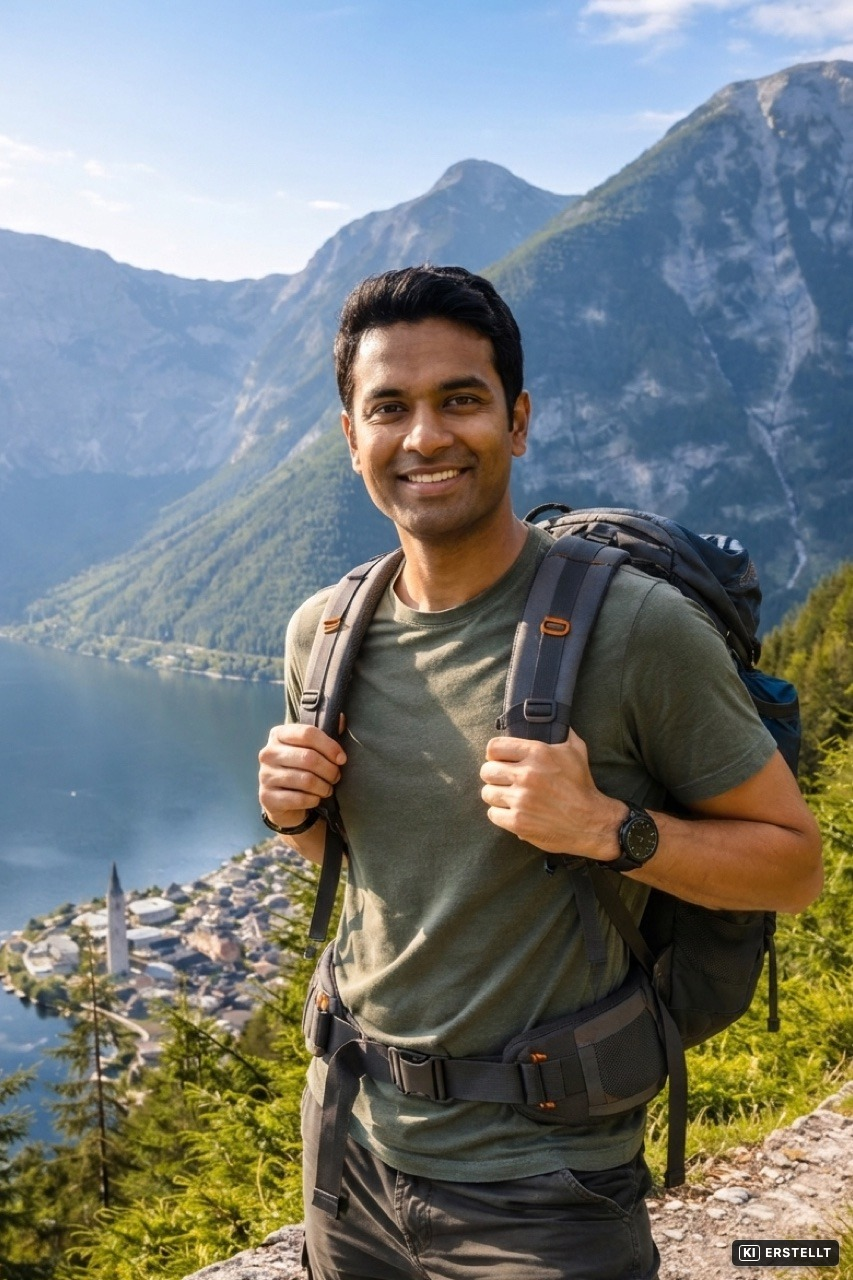
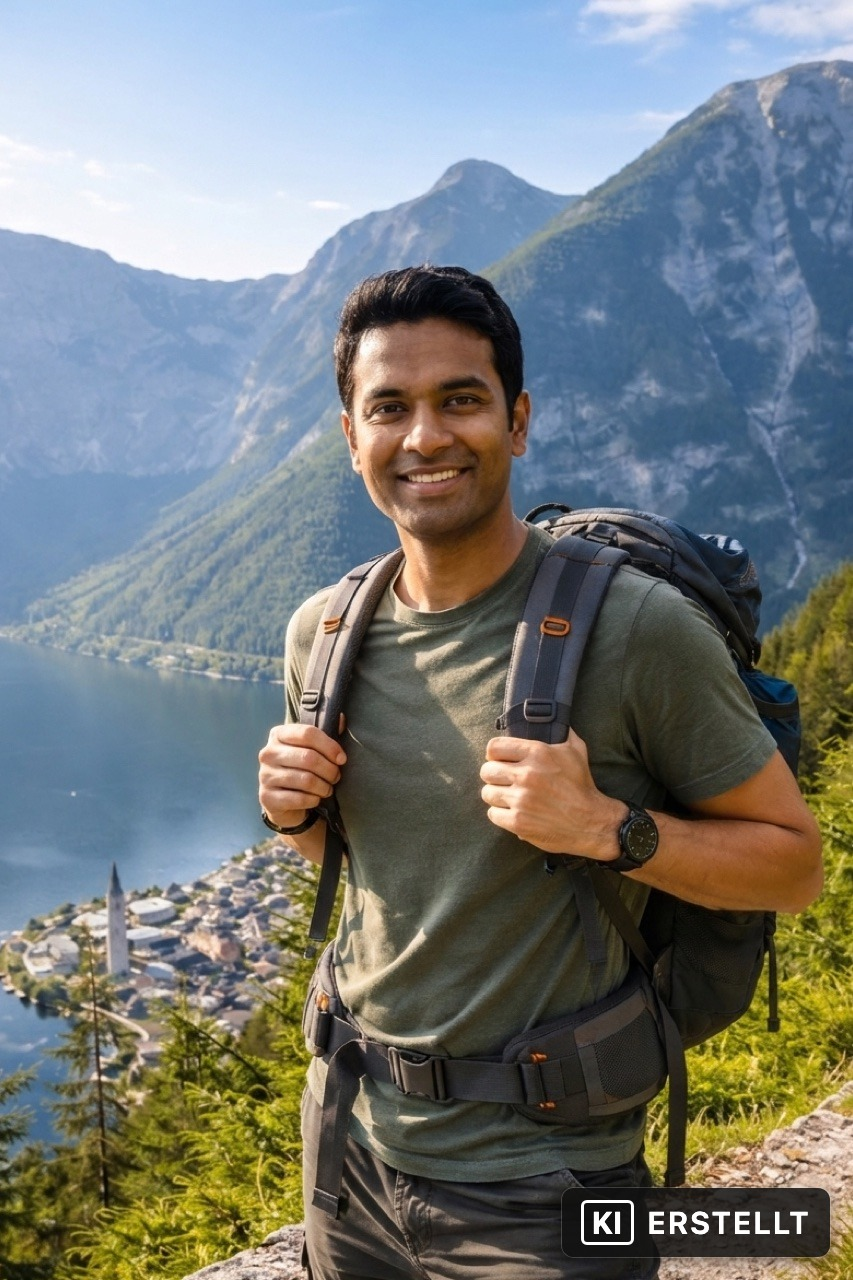
feat: v2.9.0 — Altersmerkmale, Kinderschutz-Filter, KI-Kennzeichnung
CHANGELOG zusammengefasst: Die fuenf Einzeleintraege 2.9.0 bis 2.9.4 desselben
Tages sind zu einer Version zusammengezogen. Fuer Aussenstehende zaehlt, was
sich geaendert hat — nicht, in welcher Reihenfolge es entstanden ist.

KI-Kennzeichnung der Demo-Fotos, dritter und letzter Anlauf:
Die Thumbnails werden jetzt im Kachel-Format 3:2 erzeugt statt im Hochformat.
Vorher schnitt die Kachel (aspect-ratio 3/2, object-position top) die untere
Bildhaelfte weg — das Badge war in der Datei vorhanden, auf der Startseite
aber unsichtbar. Die Badge-Groesse richtet sich jetzt nach der ANZEIGEbreite
statt nach der Dateibreite: Ein Vollbild erscheint auf ein Drittel verkleinert,
eine reine Prozentrechnung machte das Zeichen dort unlesbar klein.

METHODIK-LEKTION, im Skript dokumentiert: Die Bilddatei allein zu betrachten
sagt nichts ueber die Darstellung. Dieser Fehler ist dreimal hintereinander
passiert — Badge unten (abgeschnitten), Badge zu gross, Badge zu klein. Jetzt
wird die echte Seite lokal gerendert und die tatsaechliche Anzeigegroesse
gemessen, BEVOR deployt wird.

Cache-Buster 2026081006. 176 Frontend-Tests gruen, Format sauber.

Changed region(s): [[0.6706, 0.9062, 1.0, 1.0]]

diff --git a/public/index.html b/public/index.html
@@ -85,7 +85,7 @@
     <link rel="dns-prefetch" href="https://nominatim.openstreetmap.org" />
     <link rel="preconnect" href="https://nominatim.openstreetmap.org" crossorigin />
     <link rel="stylesheet" href="./lib/leaflet/leaflet.css" />
-    <link rel="stylesheet" href="./styles.css?v=2026081005" />
+    <link rel="stylesheet" href="./styles.css?v=2026081006" />
     <script type="application/ld+json">
 [
   {
@@ -258,15 +258,15 @@
         <p class="demo-label" data-i18n="demo.label">Kein Foto zur Hand? Probier ein Beispielbild (mit KI erstellt):</p>
         <div class="demo-grid">
           <button class="demo-thumb" data-demo="selfie" type="button" tabindex="0">
-            <img src="./img/demo/demo-selfie-thumb.jpg?v=2026081005" alt="Mit KI erstelltes Beispielbild: Selfie am Stephansplatz. Zeigt keine reale Person." loading="lazy" />
+            <img src="./img/demo/demo-selfie-thumb.jpg?v=2026081006" alt="Mit KI erstelltes Beispielbild: Selfie am Stephansplatz. Zeigt keine reale Person." loading="lazy" />
             <span class="demo-caption" data-i18n="demo.selfie">Selfie am Stephansplatz</span>
           </button>
           <button class="demo-thumb" data-demo="cafe" type="button" tabindex="0">
-            <img src="./img/demo/demo-cafe-thumb.jpg?v=2026081005" alt="Mit KI erstelltes Beispielbild: Im Café in Salzburg. Zeigt keine reale Person." loading="lazy" />
+            <img src="./img/demo/demo-cafe-thumb.jpg?v=2026081006" alt="Mit KI erstelltes Beispielbild: Im Café in Salzburg. Zeigt keine reale Person." loading="lazy" />
             <span class="demo-caption" data-i18n="demo.cafe">Im Caf&eacute; in Salzburg</span>
           </button>
           <button class="demo-thumb" data-demo="hiker" type="button" tabindex="0">
-            <img src="./img/demo/demo-hiker-thumb.jpg?v=2026081005" alt="Mit KI erstelltes Beispielbild: Wanderung bei Hallstatt. Zeigt keine reale Person." loading="lazy" />
+            <img src="./img/demo/demo-hiker-thumb.jpg?v=2026081006" alt="Mit KI erstelltes Beispielbild: Wanderung bei Hallstatt. Zeigt keine reale Person." loading="lazy" />
             <span class="demo-caption" data-i18n="demo.hiker">Wanderung bei Hallstatt</span>
           </button>
         </div>
@@ -336,6 +336,6 @@
     <div id="srAnnounce" class="sr-only" aria-live="assertive"></div>
 
     <script src="./lib/leaflet/leaflet.js"></script>
-    <script type="module" src="./app.js?v=2026081005"></script>
+    <script type="module" src="./app.js?v=2026081006"></script>
   </body>
 </html>

diff --git a/public/js/demo.js b/public/js/demo.js
@@ -5,9 +5,9 @@ import { dismissDisclaimerModal } from "./ui.js";
 import { t } from "./i18n.js";
 
 const DEMO_IMAGES = {
-  selfie: "./img/demo/demo-selfie.jpg?v=2026081005",
-  cafe: "./img/demo/demo-cafe.jpg?v=2026081005",
-  hiker: "./img/demo/demo-hiker.jpg?v=2026081005",
+  selfie: "./img/demo/demo-selfie.jpg?v=2026081006",
+  cafe: "./img/demo/demo-cafe.jpg?v=2026081006",
+  hiker: "./img/demo/demo-hiker.jpg?v=2026081006",
 };
 
 export function initDemo() {

diff --git a/CHANGELOG.md b/CHANGELOG.md
@@ -4,73 +4,32 @@ Alle relevanten Aenderungen an malziME werden hier dokumentiert.
 
 Format basiert auf [Keep a Changelog](https://keepachangelog.com/de/1.1.0/).
 
-## [2.9.4] — 2026-08-10
-
-### Hinzugefügt
-
-- **Die Demo-Fotos auf der Startseite tragen jetzt die Kennzeichnung „KI ERSTELLT".** Sie sind KI-generiert (siehe `public/img/demo/LICENSE.md`) und fallen damit unter die seit August 2026 geltende Kennzeichnungspflicht. Umgesetzt auf drei Ebenen:
-  - **Sichtbar, in die Pixel gebrannt** — klein, rechts unten (`scripts/ki-wasserzeichen.mjs`). Bewusst kein CSS-Overlay: Das verschwindet, sobald jemand das Bild speichert oder weitergibt. Der Wortlaut ist „ERSTELLT", nicht „BEARBEITET" — die Bilder sind vollständig erzeugt, nicht nachträglich verändert.
-  - **Maschinenlesbar in den Metadaten:** `DigitalSourceType = trainedAlgorithmicMedia` (offizieller IPTC-Wert für vollständig algorithmisch erzeugte Bilder), dazu Credit, Quelle und Beschreibung.
-  - **Für Suchmaschinen** über strukturierte Daten und die Bildbeschreibungen.
-
-  Zwei Fallen, beide beim ersten Anlauf zugeschlagen und im Skript dokumentiert: **Der Vorgang löscht alle EXIF-Daten** — und die sind bei den Demo-Bildern absichtlich (fiktiv) gesetzt, weil malziME daran vorführt, welche versteckten Daten in einem Foto stecken. Sie werden jetzt vom Original übernommen. Und: Die Startseite zeigt die Hochformat-Bilder in Kacheln mit 3:2 und Ausrichtung nach oben — die untere Bildhälfte fällt dort weg. Das Badge sitzt bewusst trotzdem rechts unten (übliche Ecke für Bildnachweise); sichtbar wird es in der Vorschau nach dem Klick und überall dort, wo die Datei weitergegeben wird. Für die Kachel-Ansicht trägt die Zeile darüber den Hinweis „(mit KI erstellt)".
-
-  Nebenbefund behoben: Die Vollbilder wurden in `demo.js` noch mit dem Cache-Buster vom Februar geladen — ein Bildwechsel wäre bei niemandem angekommen, der die Seite schon einmal besucht hat. (Cache-Buster 2026081005)
-
-## [2.9.3] — 2026-08-10
-
-### Behoben
-
-- **v2.9.2 zurückgenommen.** Der Fix hat den Abbruch beseitigt, aber einen schlimmeren Zustand erzeugt: Nach der Rückkehr aus dem Hintergrund erschien zwar keine Fehlermeldung mehr, es kam aber auch kein Ergebnis — kein Spinner, kein Status, nichts. Ein stiller toter Zustand ist schlechter als eine falsche Fehlermeldung, weil er nicht einmal zum Neuladen auffordert. Der Stand entspricht wieder v2.9.1; die Ursache wird untersucht, bevor ein zweiter Anlauf kommt. (Cache-Buster 2026081003)
-
-## [2.9.2] — 2026-08-10 — ZURÜCKGENOMMEN mit 2.9.3
-
-### Behoben
-
-- **„Netzwerkfehler", während das Handy in der Tasche war.** Gemeldet aus dem laufenden Betrieb: Der Browser lag im Hintergrund, es erschien eine Fehlermeldung — obwohl serverseitig alles lief. Im Log war der Job 85 Sekunden später sauber fertig und ausgeliefert; der Client hatte da längst aufgegeben.
-
-  Ursache: Der Browser friert laufende `fetch`-Aufrufe ein, sobald der Tab in den Hintergrund geht. Diese Fehlschläge zählten mit, und nach fünf davon brach der Lauf ab — rund zehn Sekunden Bildschirmsperre genügten. Der zweite Teil des Problems saß in der Fehleranzeige: Sie prüft `document.hidden` erst beim Auswerten des Fehlers. Wer zurückkehrt, bevor das passiert, bekommt statt des freundlichen „unterbrochen"-Hinweises die härteste Meldung der Kette — „Netzwerkfehler". Ursache war der Hintergrund, gemeldet wurde ein Netzproblem.
-
-  Der Job läuft in der Warteschlange unabhängig vom Browser weiter, und das Ergebnis liegt rund zwei Stunden bereit — genau dafür wurde sie gebaut. Fehlgeschlagene Abfragen im Hintergrund zählen deshalb nicht mehr mit; nach der Rückkehr wird der Zähler einmal zurückgesetzt, weil die Verbindung dann oft noch einen Moment braucht. Die Obergrenze von 30 Minuten bleibt, und bei sichtbarer Seite bricht der Lauf weiterhin nach fünf Fehlversuchen ab — sonst hinge die Anzeige bei echtem Netzausfall stumm. (`public/js/api.js`, +2 Tests, Mutationsprobe bestanden)
-
-## [2.9.1] — 2026-08-10
-
-### Behoben
-
-- **Ein Affenbild wurde als Profil eines afrikanischen Kleinkindes analysiert.** Gemeldet aus einem Workshop, wo ein Schüler das Bild hochgeladen hat. Die Verwechslung Primat/schwarzer Mensch ist ein dokumentiertes Muster in Bildmodellen (Google Photos hat 2015 Schwarze als „Gorillas" einsortiert und das nie behoben, sondern nur die Kategorie entfernt) — kein Zufall dieses einen Bildes.
-
-  **Die vorhandene Tiererkennung hat dabei nicht versagt.** Der Prompt verlangt ein Pflichtfeld `subject`, bei `ANIMAL_ONLY` kommt statt eines Profils das Tier-Easter-Egg, und das läuft in beiden Pipelines. Das Modell hatte schlicht `HUMAN` gemeldet — ab da folgt die Erkennung korrekt einer Einschätzung, die schon falsch war. Eine zusätzliche Vorprüfung „ist ein Mensch im Bild?" würde deshalb nichts ändern; sie existiert bereits und träfe dieselbe Fehlentscheidung.
-
-  Zwei Änderungen setzen deshalb tiefer an:
-  - **Im Prompt** eine Merkmals-Prüfliste vor der Festlegung (Fell statt Haut, Schnauze statt Nase, Pfoten statt Händen, Schwanz, Schnurrhaare, Ohrform) und die ausdrückliche Regel, dass Primaten **immer** `ANIMAL_ONLY` sind, niemals `HUMAN` — mit dem Hinweis, dass die Zuordnung zu einem Menschen ein schwerer, historisch belasteter Fehler ist. Bei Zweifel gilt `ANIMAL_ONLY`.
-  - **Serverseitig ein Netz** (`animal.js` `pruefeTierWiderspruch`): Meldet das Modell `HUMAN`, beschreibt im Text aber Fell, Schnauze, Pfoten oder einen Primaten, ist die Antwort in sich widersprüchlich — dann kommt das Tier-Easter-Egg statt eines erfundenen Menschenprofils. Ein falsches Tierprofil ist harmlos, ein rassistisches Menschenprofil nicht.
-
-  Bewusst eng gefasst, mit Ausnahmeliste für Pferdeschwanz, Fellweste, Kunstfell und Katzenaugen-Lidstrich: Ein zu scharfer Filter würde echte Fotos blockieren, und das wäre im Workshop schlimmer als ein seltener Durchrutscher. (+13 Tests)
-
-  **Grenze, die dazugehört:** Beschreibt das Modell durchgehend einen Menschen, findet auch dieses Netz nichts. Es fängt die widersprüchlichen Fälle, nicht die vollständig falschen. Der Haupthebel bleibt die Regel im Prompt.
-
 ## [2.9.0] — 2026-08-10
 
 ### Hinzugefügt
 
-- **Der Kinderschutz-Filter schneidet nicht mehr bei exakt 18.** Er nimmt jetzt die **Untergrenze** der Altersspanne, die das Modell selbst liefert — wer „16-22" sein könnte, gilt als schutzbedürftig — und darauf drei Jahre Sicherheitsabstand. Anlass: Aus rund 5.000 begleiteten Workshop-Analysen ist bekannt, dass Mädchen bis zu sechs Jahre zu alt geschätzt werden. Mit einer harten 18er-Grenze verlor damit ausgerechnet ein zu alt geschätztes vierzehnjähriges Mädchen den Schutz vor Glücksspiel-, Alkohol-, Kredit- und Diätwerbung — im Klassenzimmer, an die Wand projiziert. Der Preis ist bewusst in Kauf genommen: Ein tatsächlich Neunzehn- bis Einundzwanzigjähriger sieht diese Werbung nicht mehr, obwohl sie dort legitimer Lerninhalt wäre. Die Abwägung ist asymmetrisch — eine Vierzehnjährige mit Glücksspielwerbung ist ein Schaden, einem Neunzehnjährigen fehlt ein Beispiel. (`minor-safety.js`, +8 Tests)
-- **Altersmerkmale für Kinder und Jugendliche, die bei beiden Geschlechtern gleich schnell laufen.** Vorher war die *primäre* Alters-Achse die **Schulterbreite**, dazu kam eine Zusatzregel, die nur für Mädchen galt („Mädchen erreichen diese Spanne oft ohne Akne und Bartflaum" — sie verbot, ein Mädchen mit glatter Haut jünger einzuordnen). Beides hängt an der Pubertät, und die beginnt zwischen 8 und 14 Jahren, bei Mädchen im Schnitt zwei Jahre früher. Wer daran das Alter misst, schätzt Mädchen zwangsläufig zu alt und Jungen zu jung — das beobachtete Muster stand also wörtlich in der eigenen Anweisung. Neu sind Augenlinie im Kopf, Zahnstand, Wangenfett, Nasenrücken und Kopf-Körper-Verhältnis; Reifemerkmale sind ausdrücklich als untauglich benannt, mit Begründung. **Kein Ausgleich, keine Korrekturzahl** — nur bessere Merkmale. (`locales/{de,en}/prompts.js`, +33 Tests in `age-markers.test.js`)
+- **Der Kinderschutz-Filter schneidet nicht mehr bei exakt 18.** Er nimmt jetzt die **Untergrenze** der Altersspanne, die das Modell selbst liefert — wer „16-22" sein könnte, gilt als schutzbedürftig — und darauf drei Jahre Sicherheitsabstand. Anlass: Aus rund 5.000 begleiteten Workshop-Analysen ist bekannt, dass Mädchen bis zu sechs Jahre zu alt geschätzt werden. Mit einer harten 18er-Grenze verlor damit ausgerechnet ein zu alt geschätztes vierzehnjähriges Mädchen den Schutz vor Glücksspiel-, Alkohol-, Kredit- und Diätwerbung — im Klassenzimmer, an die Wand projiziert. Der Preis ist bewusst in Kauf genommen: Ein tatsächlich Neunzehn- bis Einundzwanzigjähriger sieht diese Werbung nicht mehr, obwohl sie dort legitimer Lerninhalt wäre. Die Abwägung ist asymmetrisch — eine Vierzehnjährige mit Glücksspielwerbung ist ein Schaden, einem Neunzehnjährigen fehlt ein Beispiel. (`minor-safety.js`)
 
-### Geändert
+- **Altersmerkmale für Kinder und Jugendliche, die bei beiden Geschlechtern gleich schnell laufen.** Vorher war die *primäre* Alters-Achse die **Schulterbreite**, dazu kam eine Zusatzregel, die nur für Mädchen galt („Mädchen erreichen diese Spanne oft ohne Akne und Bartflaum"). Beides hängt an der Pubertät, und die beginnt zwischen 8 und 14 Jahren, bei Mädchen im Schnitt zwei Jahre früher. Wer daran das Alter misst, schätzt Mädchen zwangsläufig zu alt und Jungen zu jung — das aus der Praxis berichtete Muster stand also wörtlich in der eigenen Anweisung. Neu sind Augenlinie im Kopf, Zahnstand, Wangenfett, Nasenrücken und Kopf-Körper-Verhältnis; Reifemerkmale sind ausdrücklich als untauglich benannt, mit Begründung. **Kein Ausgleich, keine Korrekturzahl** — nur bessere Merkmale. Bei Erwachsenen gelten fehlende Falten nicht mehr als Beleg für Jugend: Bei Mimik, Make-up oder flachem Gegenlicht entscheiden Hals, Hände und Haaransatz, und die Alters-Skala ist neu geeicht (18-30 / 30-42 / 40-52 / 50-62 / 60+).
 
-- **Fehlende Falten gelten nicht mehr als Beleg für Jugend.** Das Zwangs-Mapping zählte Falten nur, wenn sie „auch bei entspanntem Gesicht" sichtbar sind — fachlich richtig, aber auf Fotos wird gelächelt, also griff die Regel praktisch nie. Das Modell fiel dann auf „glatte Haut = jung" zurück und begründete wörtlich mit „ohne sichtbare Falten". Jetzt entscheiden bei Mimik, Make-up oder flachem Gegenlicht Hals, Hände und Haaransatz; gibt auch das nichts her, ist eine breite Spanne zu nennen statt einer jungen Punktschätzung.
-- **Alters-Skala für Erwachsene neu geeicht:** „erste feine Linien" bedeutete bisher 28-35 und schickte damit jeden gut erhaltenen Vierzigjährigen in die Dreißiger. Die Stufen liegen jetzt bei 18-30 / 30-42 / 40-52 / 50-62 / 60+ und überlappen absichtlich. Nebenbefund: Die Skala fehlte im **aktiven** Pfad komplett und stand nur im Fallback-Prompt — beide Sprachdateien führen die Kalibrierung doppelt, was beim Ändern leicht übersehen wird. Ein Test prüft jetzt alle vier Stellen.
+- **KI-Kennzeichnung auf den drei Demo-Fotos.** Sie sind KI-generiert (`public/img/demo/LICENSE.md`) und fallen unter die seit August 2026 geltende Kennzeichnungspflicht. Sichtbar in die Pixel gebrannt („KI ERSTELLT", rechts unten), maschinenlesbar über `DigitalSourceType = trainedAlgorithmicMedia` (offizieller IPTC-Wert für vollständig algorithmisch erzeugte Bilder) und für Suchmaschinen über strukturierte Daten, alt-Texte und den Hinweis „(mit KI erstellt)" in beiden Sprachen. Bewusst kein reines CSS-Overlay: Das verschwindet, sobald jemand das Bild speichert oder weitergibt. Werkzeug: `scripts/ki-wasserzeichen.mjs`.
+
+### Behoben
+
+- **Ein Affenbild wurde als Profil eines afrikanischen Kleinkindes analysiert.** Gemeldet aus einem Workshop. Die Verwechslung Primat/schwarzer Mensch ist ein dokumentiertes Muster in Bildmodellen (Google Photos hat 2015 Schwarze als „Gorillas" einsortiert und das nie behoben, sondern nur die Kategorie entfernt) — kein Zufall dieses einen Bildes.
+
+  **Die vorhandene Tiererkennung hat dabei nicht versagt.** Der Prompt verlangt ein Pflichtfeld `subject`, bei `ANIMAL_ONLY` kommt statt eines Profils das Tier-Easter-Egg, und das läuft in beiden Pipelines. Das Modell hatte schlicht `HUMAN` gemeldet — ab da folgt die Erkennung korrekt einer Einschätzung, die schon falsch war. Eine zusätzliche Vorprüfung „ist ein Mensch im Bild?" würde deshalb nichts ändern; sie existiert bereits und träfe dieselbe Fehlentscheidung. Zwei Änderungen setzen tiefer an: eine Merkmals-Prüfliste im Prompt (Fell statt Haut, Schnauze statt Nase, Pfoten statt Händen) samt der Regel, dass Primaten **immer** `ANIMAL_ONLY` sind, und serverseitig ein Netz (`animal.js` `pruefeTierWiderspruch`), das bei `HUMAN` plus beschriebenen Tiermerkmalen das Tier-Easter-Egg ausliefert statt eines erfundenen Menschenprofils. Bewusst eng gefasst, mit Ausnahmeliste für Pferdeschwanz, Fellweste, Kunstfell und Katzenaugen-Lidstrich. **Grenze:** Beschreibt das Modell durchgehend einen Menschen, findet auch dieses Netz nichts.
+
+- **Vollbilder der Demo-Fotos wurden mit einem Cache-Buster vom Februar geladen** (`demo.js`) — ein Bildwechsel wäre bei niemandem angekommen, der die Seite schon einmal besucht hat.
 
 ### Gemessen
 
-84 Analysen über 14 Fotos, drei Läufe je Bild, gegen die am 2026-08-10 korrigierte Wahrheitsliste:
+84 Analysen über 14 Fotos, drei Läufe je Bild, gegen die am 2026-08-10 geprüfte und korrigierte Wahrheitsliste:
 
-| Größe | Live | v2.9.0 |
+| Größe | vorher | v2.9.0 |
 |---|---|---|
 | Abweichung Kinder/Jugendliche | 0,8 J | 0,8 J |
 | Abweichung Erwachsene | −7,2 J | −6,5 J |
-| Richtung Mädchen | −0,3 J | 0,0 J |
-| Richtung Jungen | +1,0 J | +1,4 J |
 | Antworten mit konkretem, zeigbarem Merkmal | 95 % | **100 %** |
 | Antworten mit Leerformel | 43 % | **38 %** |
 | Geschlecht richtig | 85,7 % | 85,7 % |
@@ -78,12 +37,13 @@ Format basiert auf [Keep a Changelog](https://keepachangelog.com/de/1.1.0/).
 
 Der belastbare Gewinn liegt bei den **Begründungen**: statt „kindliche Gesichtszüge und glatte Haut bestätigen diese Altersspanne ohne sichtbare Pubertätsmerkmale" steht dort jetzt „deine Zähne sind bleibend, aber noch etwas groß fürs Gesicht, und die Wangen sind rund ohne sichtbare Wangenknochen". „Schultern" und „Statur" kommen in keiner Antwort mehr vor (vorher in acht). Das ist im Workshop vorlesbar und am Bild zeigbar.
 
-Die Alterszahlen selbst sind **kein Beweis**: Im Testset stecken nur sechs Minderjährige, drei je Geschlecht — ein einzelnes Bild kippt den Mittelwert, und das beobachtete Geschlechtsmuster tritt in diesen sechs Fotos gar nicht auf. Ob die Änderung es behebt, zeigt sich erst im Workshop-Betrieb.
+Die Alterszahlen selbst sind **kein Beweis**: Im Testset stecken nur sechs Minderjährige, drei je Geschlecht — ein einzelnes Bild kippt den Mittelwert, und das aus der Praxis berichtete Geschlechtsmuster tritt in diesen sechs Fotos gar nicht auf. Ob die Änderung es behebt, zeigt sich erst im Workshop-Betrieb.
 
 ### Untersucht und verworfen
 
-- **Bildauflösung als Ursache des Erwachsenen-Fehlers.** Verdacht war, dass die Verkleinerung auf 1280 px feine Linien wegschneidet. Zwei Gegentests widerlegen das: Bei **halber** Auflösung (640 px) landen dieselben Fotos auf die Kommastelle genau wieder bei 28 und 32 — die Zahl stammt aus der Regel, nicht aus dem Bild. Bei **voller** Auflösung (2252×4000 statt 1280) verbessert sich die Schätzung um zwei Jahre, kostet aber das Sechsfache an Upload bei nur vier Prozent mehr Tokens. Für zwei Jahre nicht vertretbar; die Verkleinerung bleibt wie sie ist.
-- **Der Jung-Bias bei Erwachsenen bleibt bestehen** (−6,5 Jahre). Vier der sieben Erwachsenenfotos landen unverändert auf exakt 28. Damit ist zum achten Mal bestätigt, was seit v2.8 im CHANGELOG steht: Alter ist keine Prompt-Frage. Die Neu-Eichung hat einen Denkfehler — die unterste Stufe wurde auf 18-30 verbreitert und bestätigt damit den 28er-Wert, der das Problem ist. Sie bleibt trotzdem drin, weil sie ein Foto um sechs Jahre verbessert und keines verschlechtert.
+- **Bildauflösung als Ursache des Erwachsenen-Fehlers.** Zwei Gegentests widerlegen den Verdacht: Bei **halber** Auflösung (640 px) landen dieselben Fotos auf die Kommastelle genau wieder bei 28 und 32 — die Zahl stammt aus der Regel, nicht aus dem Bild. Bei **voller** Auflösung (2252×4000 statt 1280) verbessert sich die Schätzung um zwei Jahre, kostet aber das Sechsfache an Upload bei nur vier Prozent mehr Tokens. Die Verkleinerung bleibt wie sie ist.
+- **Der Jung-Bias bei Erwachsenen bleibt bestehen** (−6,5 Jahre). Vier der sieben Erwachsenenfotos landen unverändert auf exakt 28. Damit ist zum achten Mal bestätigt, was seit v2.8 im CHANGELOG steht: Alter ist keine Prompt-Frage. Die Neu-Eichung hat einen bekannten Denkfehler — die unterste Stufe wurde auf 18-30 verbreitert und bestätigt damit den 28er-Wert, der das Problem ist. Sie bleibt trotzdem drin, weil sie ein Foto um sechs Jahre verbessert und keines verschlechtert.
+- **Ein erster Anlauf gegen den Abbruch im Hintergrund** („Netzwerkfehler", während das Handy in der Tasche liegt) wurde nach kurzer Zeit wieder zurückgenommen: Er beseitigte zwar die Fehlermeldung, hinterließ aber einen stillen toten Zustand — kein Spinner, kein Status, kein Ergebnis. Das ist schlechter als eine falsche Fehlermeldung, weil es nicht einmal zum Neuladen auffordert. Der Test dazu war grün und bestand sogar die Mutationsprobe, bildete die Realität eines gesperrten Handys aber nicht ab. Ursache wird untersucht, bevor ein zweiter Anlauf kommt.
 
 ## [2.8.1] — 2026-08-10
 
